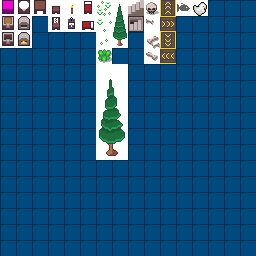
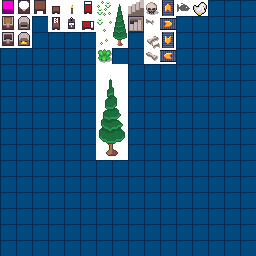
Working on new sprites

Changed region(s): [[0.625, 0.0, 0.6875, 0.25]]

diff --git a/Sources/Hevadea/Game/Registry/ITEMS.cs b/Sources/Hevadea/Game/Registry/ITEMS.cs
@@ -34,6 +34,7 @@ namespace Hevadea.Game.Registry
         public static Item FURNACE;
 
         public static Item BELT;
+        public static Item TNT;
         public static Item RAW_FISH;
         
         public static void Initialize()
@@ -60,7 +61,8 @@ namespace Hevadea.Game.Registry
             FURNACE        = new Item("furnace",        new Sprite(Ressources.TileEntities, new Point(1, 1)));
             TORCH          = new Item("torch",          new Sprite(Ressources.TileEntities, new Point(4, 0)));
             
-            BELT = new Item("belt", new Sprite(Ressources.TileEntities, new Point(0, 0)));
+            BELT = new Item("belt", new Sprite(Ressources.TileItems, new Point(9, 0)));
+            TNT = new Item("tnt", new Sprite(Ressources.TileItems, new Point(0, 0)));
             RAW_FISH = new Item("raw_fish", new Sprite(Ressources.TileEntities, new Point(11, 0)));
         }
 
@@ -76,7 +78,8 @@ namespace Hevadea.Game.Registry
             GRASS_PATCH.AddTag(new PlaceTile(TILES.GRASS){CanBePlaceOn = {TILES.DIRT}});
             SAND.AddTag(new PlaceTile(TILES.SAND){CanBePlaceOn = {TILES.DIRT}});
             
-            BELT.AddTag(new PlaceEntity(ENTITIES.TNT));
+            BELT.AddTag(new PlaceEntity(ENTITIES.BELT));
+            TNT.AddTag(new PlaceEntity(ENTITIES.TNT));
         }
     }
 }

diff --git a/Sources/Hevadea/Game/Registry/RECIPIES.cs b/Sources/Hevadea/Game/Registry/RECIPIES.cs
@@ -15,6 +15,7 @@ namespace Hevadea.Game.Registry
             HandCrafted.Add(new Recipe(ITEMS.TORCH, 4).AddCost(ITEMS.COAL, 1).AddCost(ITEMS.WOOD_STICK, 1));
             HandCrafted.Add(new Recipe(ITEMS.CRAFTING_BENCH, 1).AddCost(ITEMS.WOOD_STICK, 4).AddCost(ITEMS.WOOD_PLANK, 4));
             HandCrafted.Add(new Recipe(ITEMS.BELT, 4));
+            HandCrafted.Add(new Recipe(ITEMS.TNT, 4));
 
             BenchCrafted.Add(new Recipe(ITEMS.CHEST, 1).AddCost(ITEMS.WOOD_PLANK, 8));
             BenchCrafted.Add(new Recipe(ITEMS.FURNACE, 1, new RecipeCost(ITEMS.STONE, 8)));

diff --git a/Sources/Hevadea/Game/Registry/TILES.cs b/Sources/Hevadea/Game/Registry/TILES.cs
@@ -48,7 +48,7 @@ namespace Hevadea.Game.Registry
             VOID.AddTag(new Tags.Solide());
 
             ROCK.AddTag(new Tags.Solide(), new Tags.Damage { ReplacementTile = DIRT });
-            ROCK.AddTag(new Tags.Droppable(new Drop(ITEMS.STONE,1f, 2, 4), new Drop(ITEMS.COAL,1f, 0, 2)));
+            ROCK.AddTag(new Tags.Droppable(new Drop(ITEMS.STONE,1f, 2, 3), new Drop(ITEMS.COAL,1f, 0, 2)));
 
             SAND.AddTag(new Tags.Breakable { ReplacementTile = DIRT });
             SAND.AddTag(new Tags.Droppable(new Drop(ITEMS.SAND, 1f, 1, 1)));
